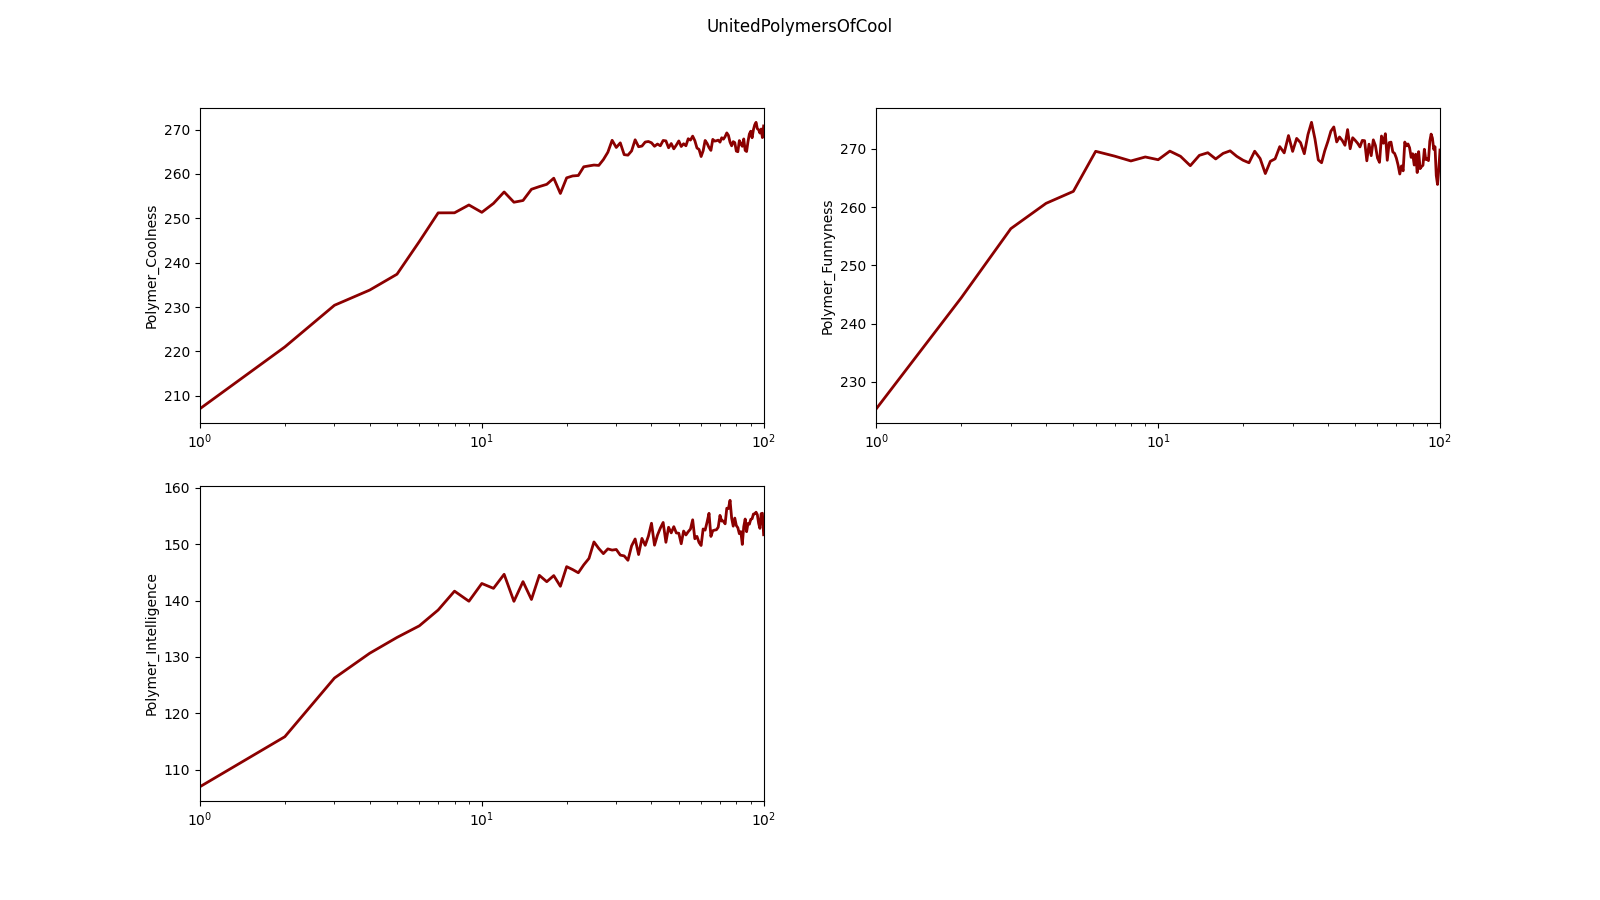
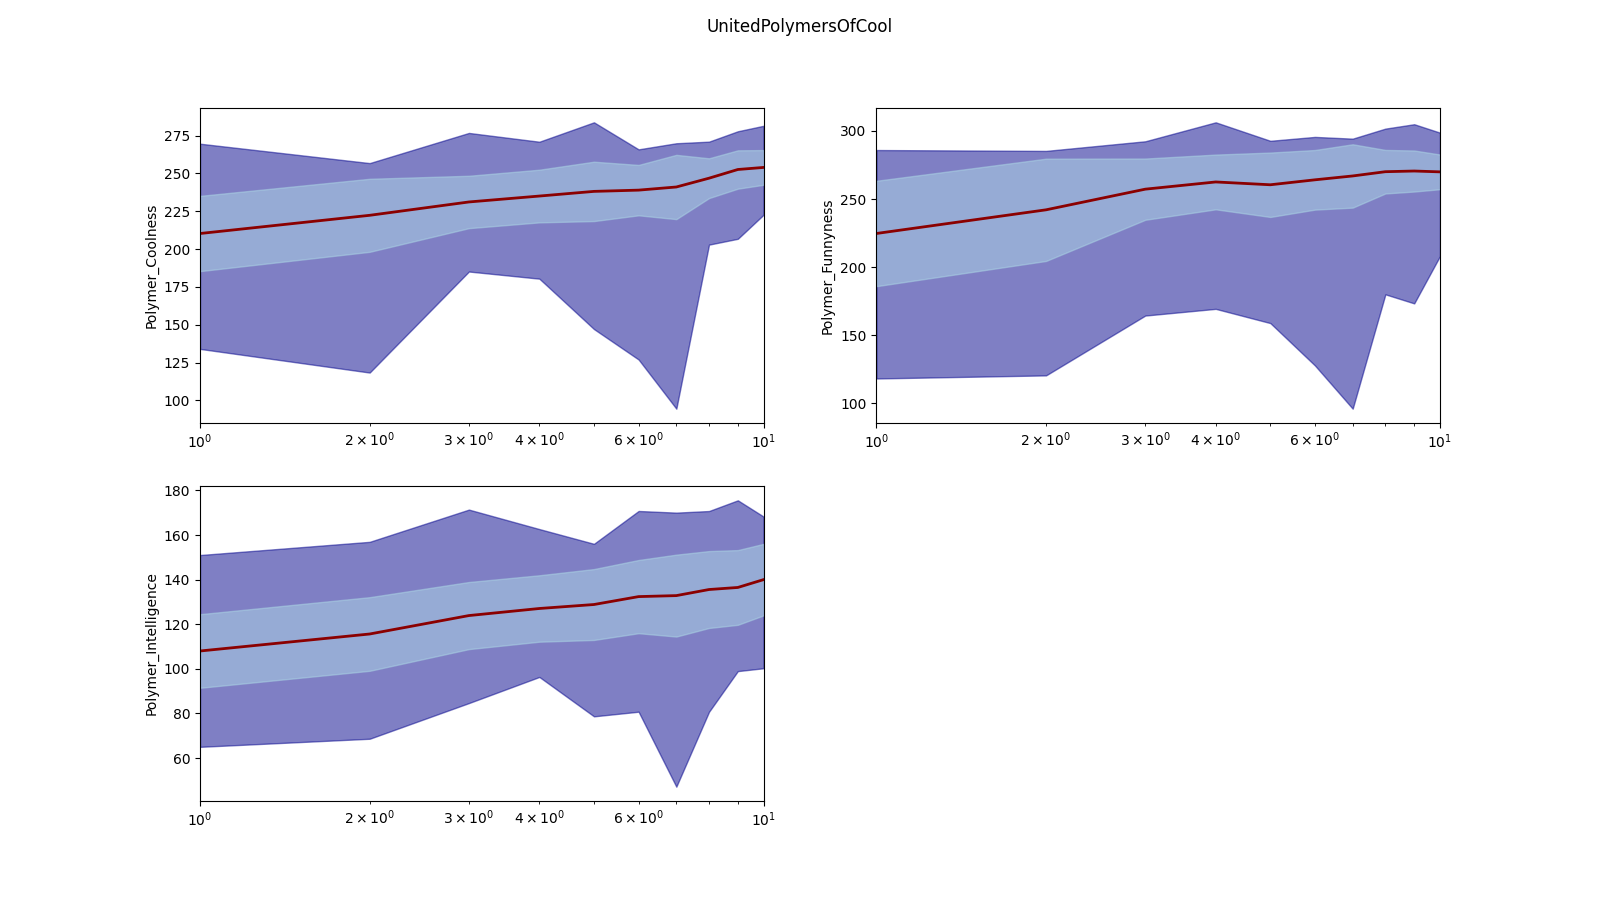
update tutotrial

diff --git a/silly_test/analyze_silly_test.py b/silly_test/analyze_silly_test.py
@@ -53,14 +53,26 @@ def plot_property_averages(df):
     properties = ['Polymer_Coolness', 'Polymer_Funnyness','Polymer_Intelligence']
     nations = np.unique(df.nation.values)
     for nation in nations:
-        vals = []
+        means = []
+        maxes = []
+        mins = []
+        stds = []
         tdf = df.loc[df.nation == nation]
         for prop in properties:
-            val = []
+            mean = []
+            std = []
+            max_ = []
+            min_ = []
             for i in range(max(tdf.generation) + 1):
                 tdf_ = tdf.loc[tdf['generation'] == i]
-                val.append(tdf_[prop].mean())
-            vals.append(val)
+                mean.append(tdf_[prop].mean())
+                std.append(tdf_[prop].std())
+                max_.append(max(tdf_[prop]))
+                min_.append(min(tdf_[prop]))
+            means.append(mean)
+            stds.append(std)
+            maxes.append(max_)
+            mins.append(min_)
 
         fig, axes = plt.subplots(nrows=2, ncols=2, figsize=[16,9])
         x = np.linspace(0, max(tdf.generation), max(tdf.generation)+1)
@@ -69,7 +81,19 @@ def plot_property_averages(df):
         col = 0
         curr = 0
         for prop in properties:
-            axes[row][col].plot(x, vals[curr], lw=2, c='darkred')
+            max_ = maxes[curr]
+            min_ = mins[curr]
+            mean = means[curr]
+            std = stds[curr]
+            upper = [mean[i] + std[i] for i in range(len(mean))]
+            lower = [mean[i] - std[i] for i in range(len(mean))]
+            axes[row][col].fill_between(x, min_, max_, alpha=0.5, 
+                color='darkblue'
+            )
+            axes[row][col].fill_between(x, lower, upper, alpha=0.5, 
+                color='lightblue'
+            )
+            axes[row][col].plot(x, means[curr], lw=2, c='darkred')
             axes[row][col].set_ylabel(prop)
             axes[row][col].set_xlim([1,max(tdf.generation)+1])
             axes[row][col].set_xscale("log")

diff --git a/tutorials/basic/analyzing.md b/tutorials/basic/analyzing.md
@@ -11,6 +11,7 @@
 After running polyga, we want to analyze the polymers (or other materials)
 we have created. To start, let's run the 'analyze\_silly\_test.py' script in 
 the silly\_test folder by typing `python analyze_silly_test.py`
+(to see how your directory should look, see the [previous tutorial](basic.md).
 
 First, the follwing data should print to the terminal.
 
@@ -34,3 +35,24 @@ Polymer_Coolness
 Polymer_Intelligence  
 Polymer_Funnyness  
 ```
+
+If we open the Silly\_Test folder we should see some images as well. The first
+one should look like this.  
+![properties image](../../imgs/UnitedPolymersOfCool_property_avgs.png)
+
+In this image, the darkred line is the average property value per polymer at
+each generation, the light blue is the average +/- the standard deviation, and
+the dark blue is the min to max property value of polymers in each generation.
+The generations are plotted on a log scale and we see that average values
+increase per generation.
+
+This indicates that, like in real life, each generation of polymers is getting 
+progressively cooler, funnier, and smarter. However, the next image will offset
+this excitement.
+
+![pol length img](../../imgs/length_avg.png)
+
+Here we see the polymers are getting very long. To understand why, we'll have
+to examine our random forest models and fingerprints in a bit, but first, let's
+go over the code that facilitated this analysis.
+
